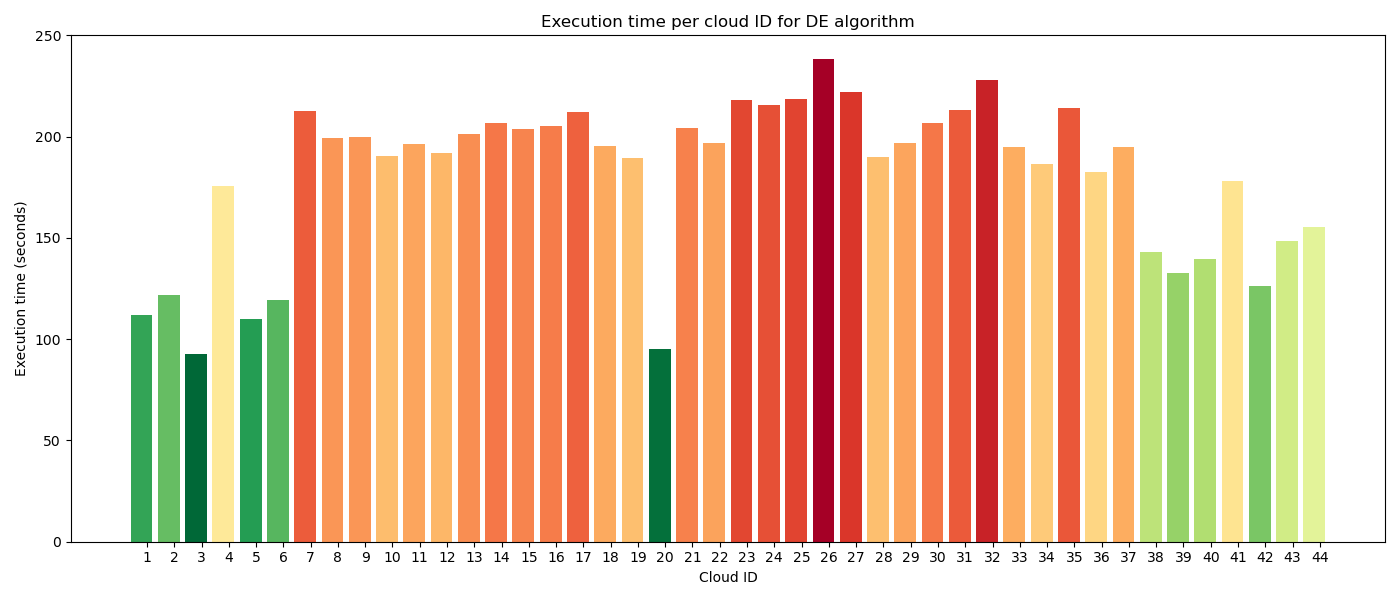
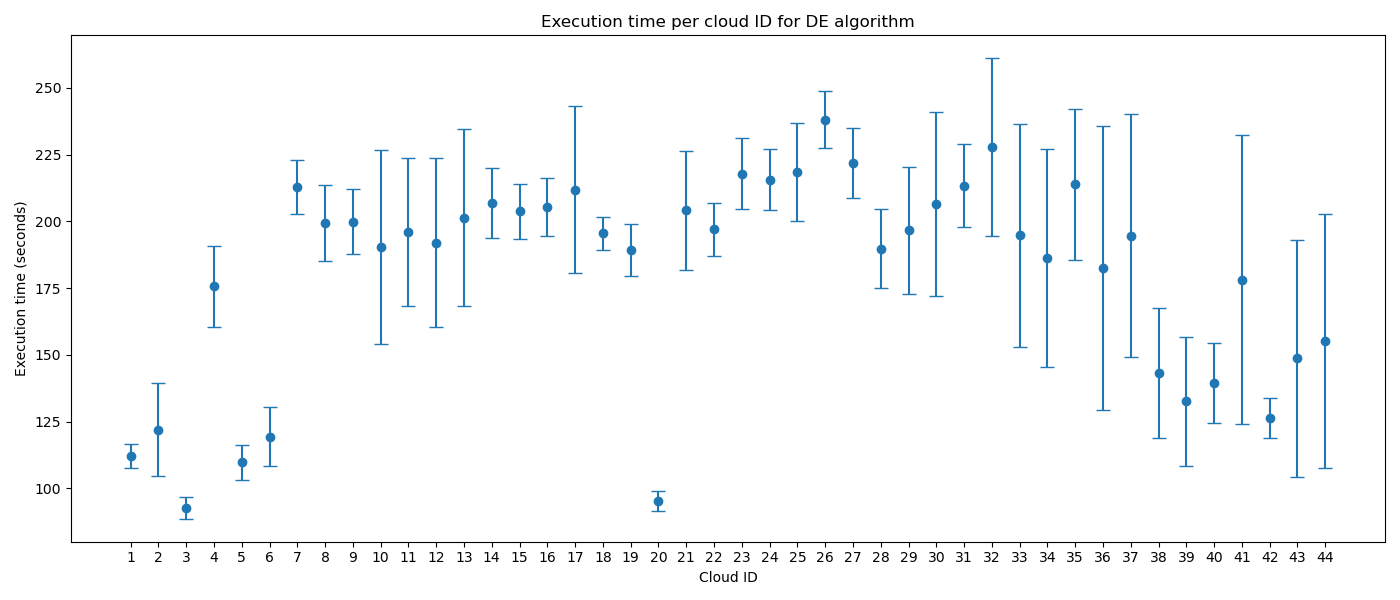
Show std deviation in graphs

diff --git a/tools/parse_data.py b/tools/parse_data.py
@@ -33,11 +33,9 @@ MIN_CONVERGENCE_PERCENTAGE = 75
 ########################################################################
 
 
-
 def getSampleCounts(data_frame):
     sample_counts = data_frame.groupby('id_cloud').size()
     return sample_counts
-
 
 
 def getConvPerc(data_frame):
@@ -56,19 +54,27 @@ def getConvPerc(data_frame):
     return convergence_percentage
 
 
-
-def getPosErrorAvg(data_frame):
+def getOriErrorStd(data_frame):
     ids = data_frame['id_cloud'].tolist()
-    pos_errors = data_frame['poserror'].tolist()
+    orierror_1 = data_frame['orierror_1'].tolist()
+    orierror_2 = data_frame['orierror_2'].tolist()
+    orierror_3 = data_frame['orierror_3'].tolist()
 
-    pares_ordenados = sorted(zip(ids, pos_errors))
+    pares_ordenados_1 = sorted(zip(ids, orierror_1))
+    pares_ordenados_2 = sorted(zip(ids, orierror_2))
+    pares_ordenados_3 = sorted(zip(ids, orierror_3))
 
-    df_pares_ordenados = pd.DataFrame(pares_ordenados, columns=['id_cloud', 'poserror'])
+    df_pares_ordenados_1 = pd.DataFrame(pares_ordenados_1, columns=['id_cloud', 'orierror_1'])
+    df_pares_ordenados_2 = pd.DataFrame(pares_ordenados_2, columns=['id_cloud', 'orierror_2'])
+    df_pares_ordenados_3 = pd.DataFrame(pares_ordenados_3, columns=['id_cloud', 'orierror_3'])
 
-    poserror_avg = df_pares_ordenados.groupby('id_cloud')['poserror'].mean()
+    orierror_std_1 = df_pares_ordenados_1.groupby('id_cloud')['orierror_1'].std()
+    orierror_std_2 = df_pares_ordenados_2.groupby('id_cloud')['orierror_2'].std()
+    orierror_std_3 = df_pares_ordenados_3.groupby('id_cloud')['orierror_3'].std()
 
-    return poserror_avg
+    total_orierror_std = (orierror_std_1 + orierror_std_2 + orierror_std_3) / 3
 
+    return total_orierror_std
 
 
 def getOriErrorAvg(data_frame):
@@ -94,32 +100,38 @@ def getOriErrorAvg(data_frame):
     return total_orierror_avg
 
 
-
-def getItAvg(data_frame):
+def getDataStd(data_frame, col_id):
     ids = data_frame['id_cloud'].tolist()
-    its = data_frame['it'].tolist()
+    column_data = data_frame[col_id].tolist()
 
-    pares_ordenados = sorted(zip(ids, its))
+    pares_ordenados = sorted(zip(ids, column_data))
+    df_pares_ordenados = pd.DataFrame(pares_ordenados, columns=['id_cloud', col_id])
 
-    df_pares_ordenados = pd.DataFrame(pares_ordenados, columns=['id_cloud', 'it'])
+    # Calcular el rango intercuartil (IQR)
+    Q1 = df_pares_ordenados.groupby('id_cloud')[col_id].quantile(0.25)
+    Q3 = df_pares_ordenados.groupby('id_cloud')[col_id].quantile(0.75)
+    IQR = Q3 - Q1
 
-    it_avg = df_pares_ordenados.groupby('id_cloud')['it'].mean()
+    # Calcular el rango medio absoluto de la desviación (MAD)
+    MAD = df_pares_ordenados.groupby('id_cloud')[col_id].apply(lambda x: np.median(np.abs(x - x.median())))
 
-    return it_avg
+    # Calcular la desviación estándar
+    STD = df_pares_ordenados.groupby('id_cloud')[col_id].std()
+
+    return STD
 
 
-
-def getTimeAvg(data_frame):
+def getDataAvg(data_frame, col_id):
     ids = data_frame['id_cloud'].tolist()
-    times = data_frame['time'].tolist()
+    column_data = data_frame[col_id].tolist()
 
-    pares_ordenados = sorted(zip(ids, times))
+    pares_ordenados = sorted(zip(ids, column_data))
 
-    df_pares_ordenados = pd.DataFrame(pares_ordenados, columns=['id_cloud', 'time'])
+    df_pares_ordenados = pd.DataFrame(pares_ordenados, columns=['id_cloud', col_id])
 
-    time_avg = df_pares_ordenados.groupby('id_cloud')['time'].mean()
+    data_avg = df_pares_ordenados.groupby('id_cloud')[col_id].mean()
 
-    return time_avg
+    return data_avg
 
 
 
@@ -156,6 +168,37 @@ def showBarCombined(dataframe, title, title_x, title_y, max_y_value=None,
         plt.show()
 
 
+def showErrorBarSimple(dataframe_avg, stds, title, title_x, title_y, max_y_value=None, custom_y_limit=None, color_gradient=False, color_threshold=False):
+
+    # Graficar los datos con error bars
+    plt.figure(figsize=(14, 6))
+
+    # Obtener los datos para graficar
+    ids = dataframe_avg.index
+    y_data = dataframe_avg.values
+    x_positions = np.arange(len(ids))
+
+    # Trazar la gráfica con error bars
+    plt.errorbar(ids, y_data, yerr=stds, fmt='o', capsize=5)
+
+    # Configurar etiquetas y título
+    plt.xlabel(title_x)
+    plt.ylabel(title_y)
+    plt.title(title)
+    plt.xticks(x_positions + 1, ids)
+
+    # Agregar línea discontinua si se especifica
+    if custom_y_limit:
+        plt.axhline(y=custom_y_limit, color='gray', linestyle='--')
+
+    # Establecer límite en el eje y si se especifica
+    if max_y_value:
+        plt.ylim(0, max_y_value)
+
+    # Mostrar la gráfica
+    plt.tight_layout()
+    plt.show()
+
 
 def showBarSimple(dataframe, title, title_x, title_y, max_y_value=None, custom_y_limit=None, color_gradient=False, color_threshold=False):
 
@@ -165,7 +208,6 @@ def showBarSimple(dataframe, title, title_x, title_y, max_y_value=None, custom_y
     # Obtener los datos para graficar
     ids = dataframe.index
     y_data = dataframe.values
-    bar_width = 0.2
     index = np.arange(len(ids))
 
     if color_gradient:
@@ -189,7 +231,7 @@ def showBarSimple(dataframe, title, title_x, title_y, max_y_value=None, custom_y
     plt.xlabel(title_x)
     plt.ylabel(title_y)
     plt.title(title)
-    plt.xticks(index + bar_width, ids)
+    plt.xticks(index, ids)
     
     # Agregar línea discontinua si se especifica
     if custom_y_limit:
@@ -209,13 +251,17 @@ def showInfo(data_frame, name):
     num_samples_df = getSampleCounts(data_frame)
 
     # Calcula las medias para cada algoritmo
-    time_avg_df = getTimeAvg(data_frame)
+    time_avg_df = getDataAvg(data_frame, 'time')
+    time_std_df = getDataStd(data_frame, 'time')
 
-    it_avg_df = getItAvg(data_frame)
+    it_avg_df = getDataAvg(data_frame, 'it')
+    it_std_df = getDataStd(data_frame, 'it')
 
-    poserror_avg_df = getPosErrorAvg(data_frame)
+    poserror_avg_df = getDataAvg(data_frame, 'poserror')
+    poserror_std_df = getDataStd(data_frame, 'poserror')
 
     orierror_avg_df = getOriErrorAvg(data_frame)
+    orierror_std_df = getOriErrorStd(data_frame)
 
     conv_perc_df = getConvPerc(data_frame)
     num_convergences = (conv_perc_df > MIN_CONVERGENCE_PERCENTAGE).sum()
@@ -233,19 +279,19 @@ def showInfo(data_frame, name):
 
     title = f'Execution time per cloud ID for {name} algorithm'
     title_y = 'Execution time (seconds)'
-    showBarSimple(time_avg_df, title, title_x, title_y, color_gradient=True)
+    showErrorBarSimple(time_avg_df, time_std_df, title, title_x, title_y, color_gradient=True)
 
     title = f'Iterations per cloud ID for {name} algorithm'
     title_y = 'Iterations until convergence'
-    showBarSimple(it_avg_df, title, title_x, title_y)
+    showErrorBarSimple(it_avg_df, it_std_df, title, title_x, title_y)
 
     title = f'Position error (m) per cloud ID for {name} algorithm'
     title_y = 'Position error in meters'
-    showBarSimple(poserror_avg_df, title, title_x, title_y, custom_y_limit=MAX_POS_ERROR, color_gradient=True)
+    showErrorBarSimple(poserror_avg_df, poserror_std_df, title, title_x, title_y, custom_y_limit=MAX_POS_ERROR, color_gradient=True)
 
     title = f'Orientation error per cloud ID for {name} algorithm'
     title_y = 'Orientation error in meters'
-    showBarSimple(orierror_avg_df, title, title_x, title_y, custom_y_limit=MAX_ORI_ERROR_COMBINED, color_gradient=True)
+    showErrorBarSimple(orierror_avg_df, orierror_std_df, title, title_x, title_y, custom_y_limit=MAX_ORI_ERROR_COMBINED, color_gradient=True)
 
 
 def main():
